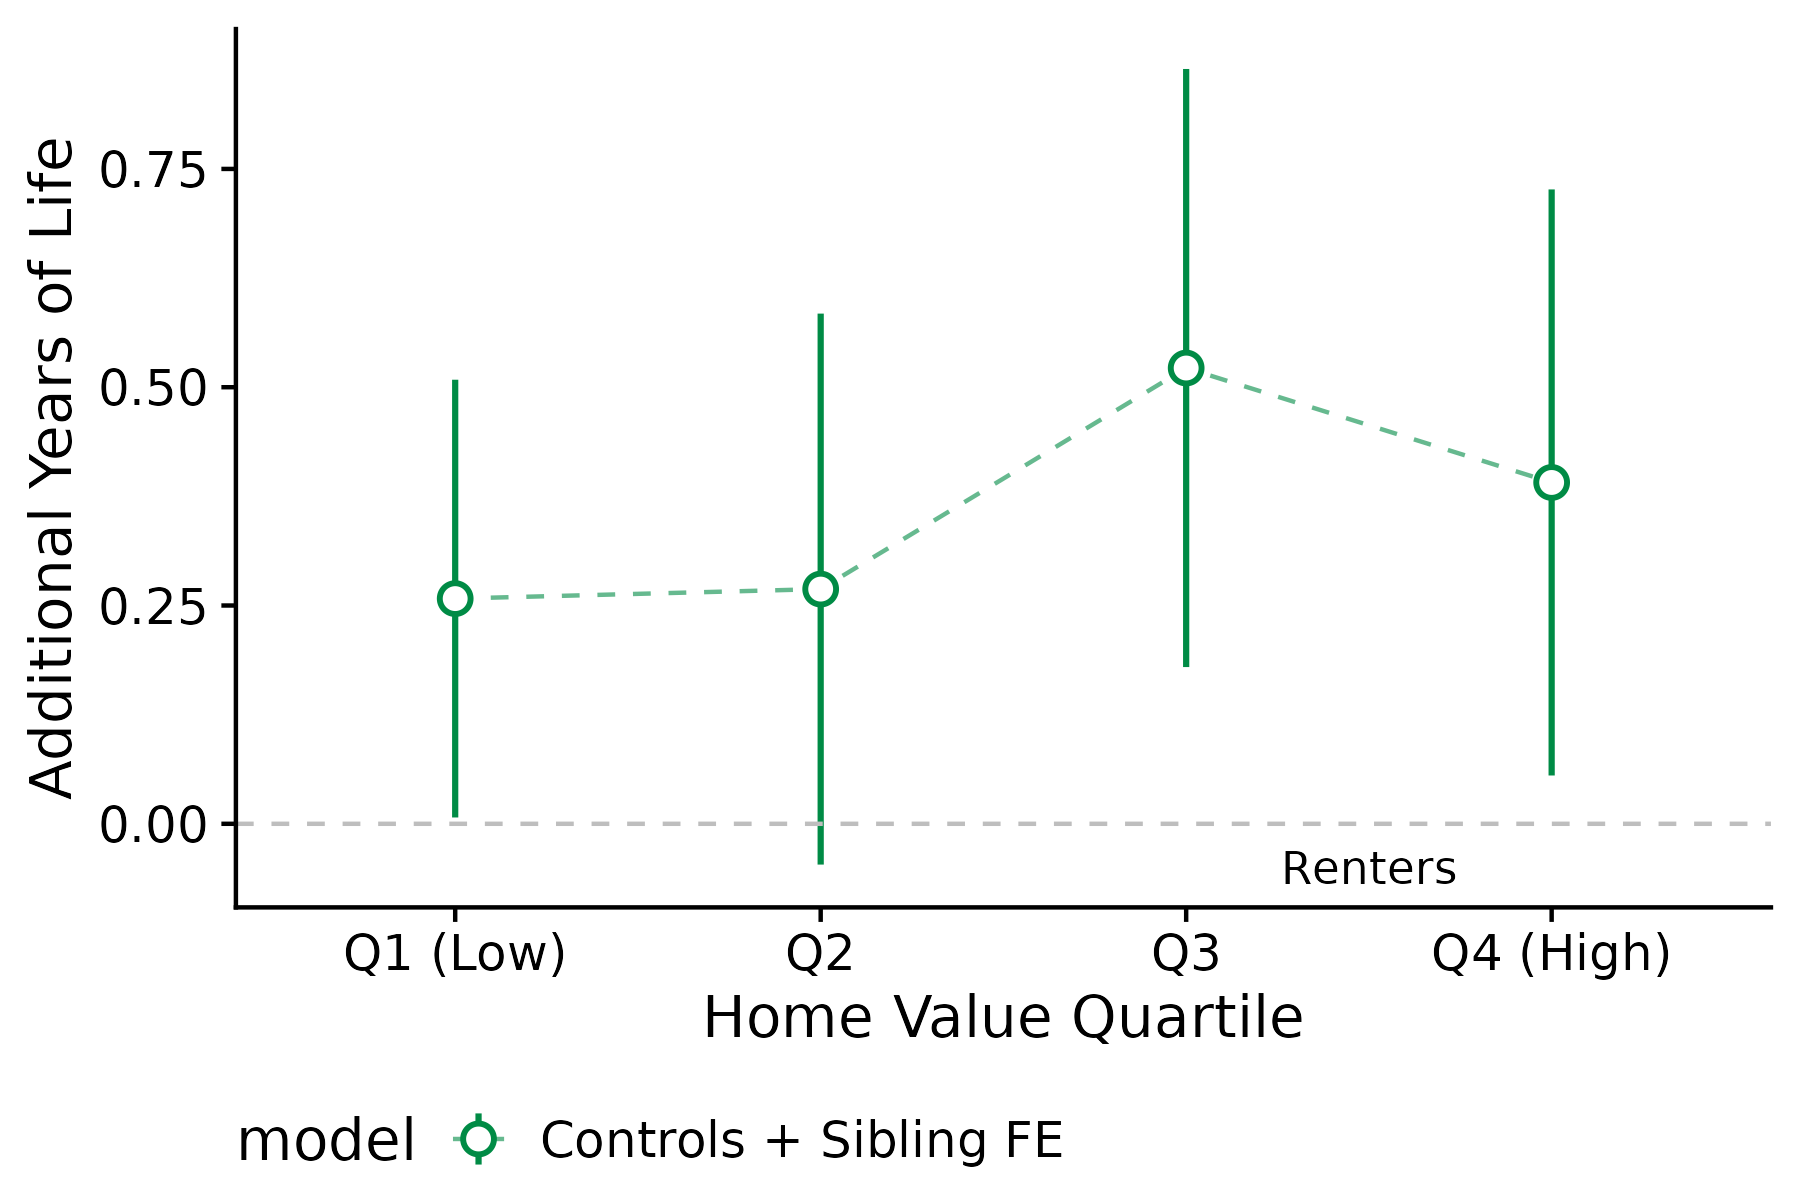
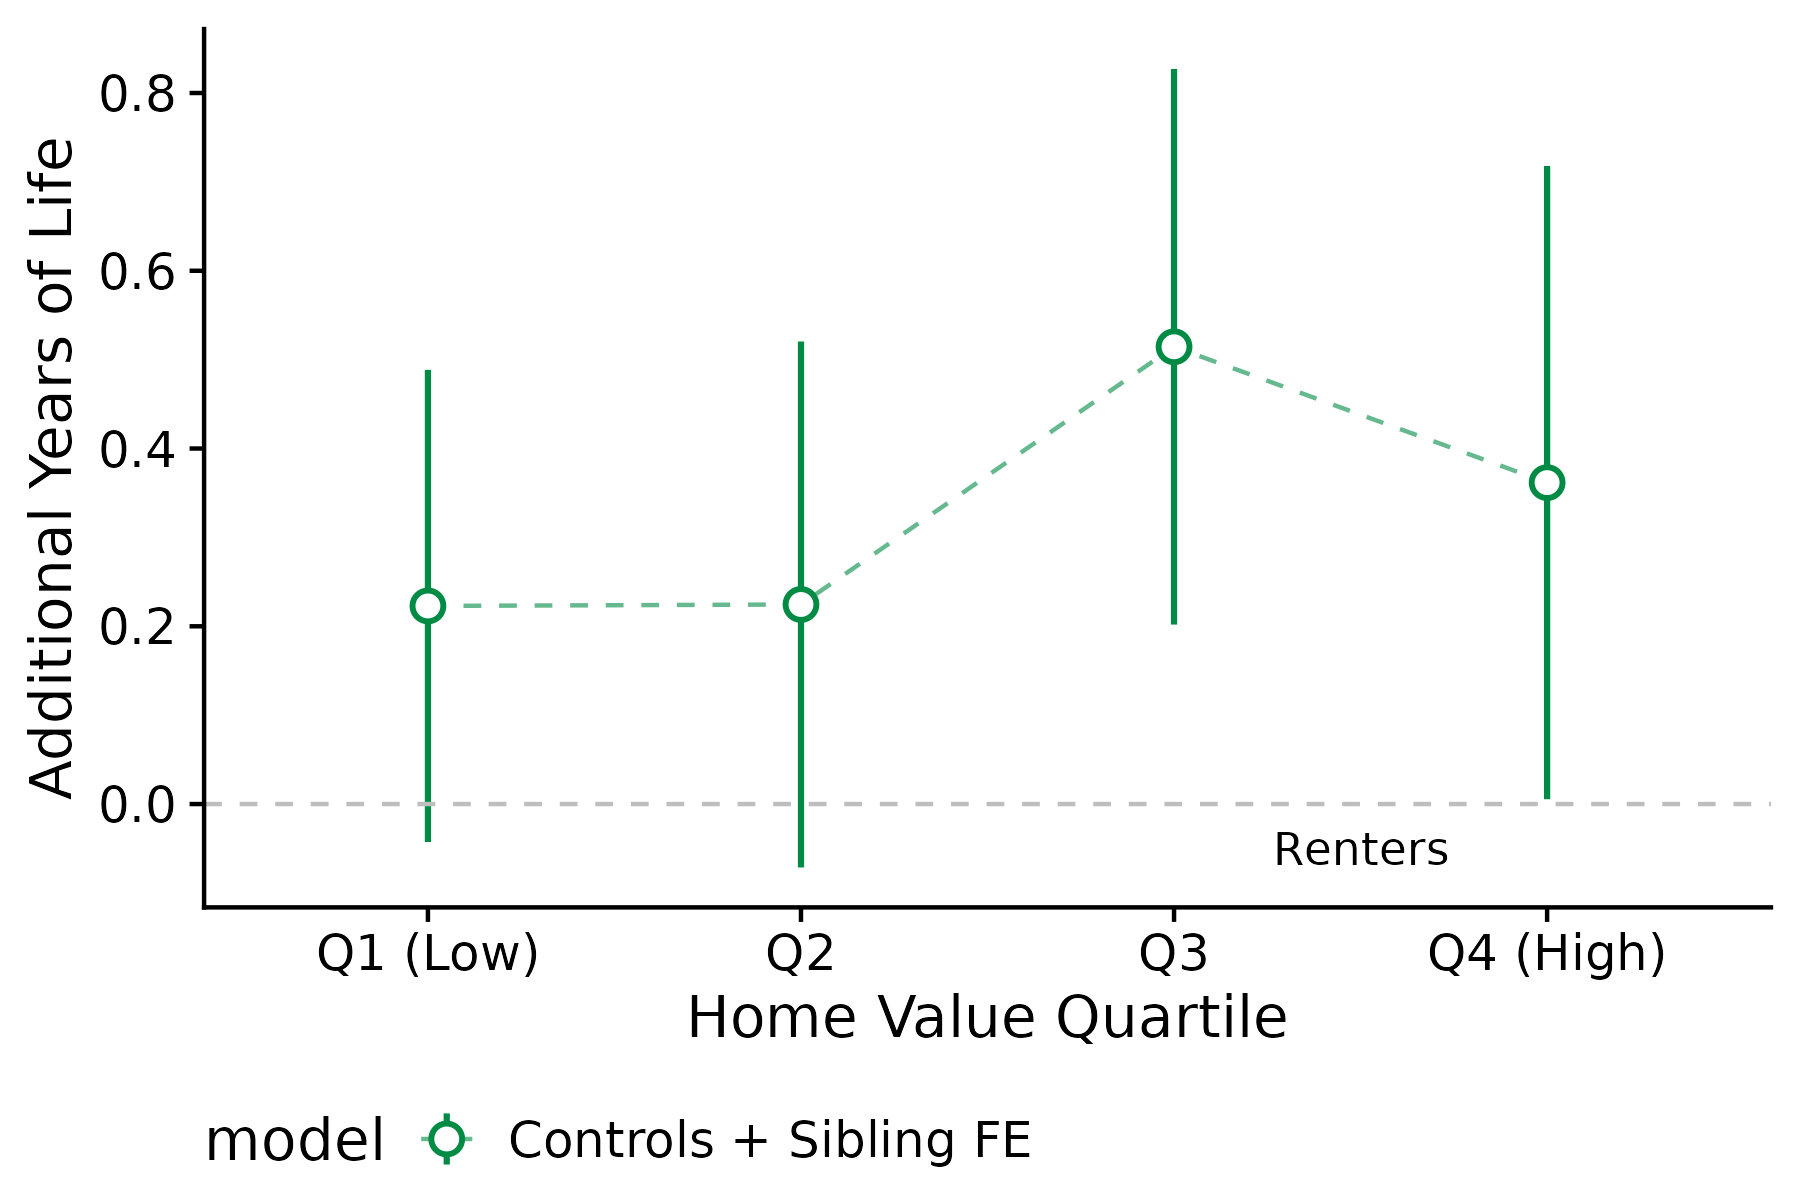
update code

diff --git a/tables/table4_regtable_homeownership_quartile.tex b/tables/table4_regtable_homeownership_quartile.tex
@@ -7,22 +7,22 @@
    Model:                        & (1)            & (2)             & (3)\\  
    \midrule
    \emph{Variables}\\
-   as.factor(ownership\_value)1  & 0.3808$^{***}$ & 0.4450$^{***}$  & 0.2579$^{*}$\\   
-                                 & (0.0751)       & (0.0662)        & (0.1279)\\   
-   as.factor(ownership\_value)2  & 0.5768$^{***}$ & 0.5027$^{***}$  & 0.2688\\   
-                                 & (0.0685)       & (0.0797)        & (0.1610)\\   
-   as.factor(ownership\_value)3  & 0.8616$^{***}$ & 0.7207$^{***}$  & 0.5220$^{**}$\\   
-                                 & (0.1050)       & (0.1176)        & (0.1747)\\   
-   as.factor(ownership\_value)4  & 0.9960$^{***}$ & 0.6172$^{***}$  & 0.3909$^{**}$\\   
-                                 & (0.1303)       & (0.1228)        & (0.1712)\\   
-   educ\_yrs                     &                & 0.1716$^{***}$  & 0.1414$^{***}$\\   
-                                 &                & (0.0136)        & (0.0228)\\   
-   racecOther                    &                & -2.737$^{**}$   & 0.6885\\   
-                                 &                & (0.9593)        & (1.566)\\   
-   racecWhite                    &                & -0.3917         & -1.457\\   
-                                 &                & (0.2946)        & (0.9235)\\   
-   urban                         &                & -0.3800$^{***}$ & -0.0544\\   
-                                 &                & (0.0744)        & (0.1301)\\   
+   as.factor(ownership\_value)1  & 0.3782$^{***}$ & 0.4365$^{***}$  & 0.2229\\   
+                                 & (0.0752)       & (0.0664)        & (0.1355)\\   
+   as.factor(ownership\_value)2  & 0.5284$^{***}$ & 0.4544$^{***}$  & 0.2245\\   
+                                 & (0.0666)       & (0.0767)        & (0.1510)\\   
+   as.factor(ownership\_value)3  & 0.8655$^{***}$ & 0.7275$^{***}$  & 0.5145$^{***}$\\   
+                                 & (0.0947)       & (0.1083)        & (0.1595)\\   
+   as.factor(ownership\_value)4  & 0.9880$^{***}$ & 0.6105$^{***}$  & 0.3617$^{*}$\\   
+                                 & (0.1333)       & (0.1240)        & (0.1818)\\   
+   educ\_yrs                     &                & 0.1666$^{***}$  & 0.1352$^{***}$\\   
+                                 &                & (0.0134)        & (0.0202)\\   
+   racecOther                    &                & -2.463$^{**}$   & 0.8707\\   
+                                 &                & (0.9610)        & (1.455)\\   
+   racecWhite                    &                & -0.3728         & -1.621\\   
+                                 &                & (0.2753)        & (0.9901)\\   
+   urban                         &                & -0.3819$^{***}$ & -0.0894\\   
+                                 &                & (0.0782)        & (0.1205)\\   
    \midrule
    \emph{Fixed-effects}\\
    byear                         & Yes            & Yes             & Yes\\  
@@ -33,9 +33,9 @@
    birth\_order                  &                &                 & Yes\\  
    \midrule
    \emph{Fit statistics}\\
-   Observations                  & 83,136         & 83,136          & 83,136\\  
-   R$^2$                         & 0.03661        & 0.05001         & 0.55691\\  
-   Within R$^2$                  & 0.00160        & 0.00403         & 0.00146\\  
+   Observations                  & 83,990         & 83,990          & 83,990\\  
+   R$^2$                         & 0.03648        & 0.04978         & 0.54927\\  
+   Within R$^2$                  & 0.00155        & 0.00382         & 0.00138\\  
    \midrule \midrule
    \multicolumn{4}{l}{\emph{Clustered (byear) standard-errors in parentheses}}\\
    \multicolumn{4}{l}{\emph{Signif. Codes: ***: 0.01, **: 0.05, *: 0.1}}\\
